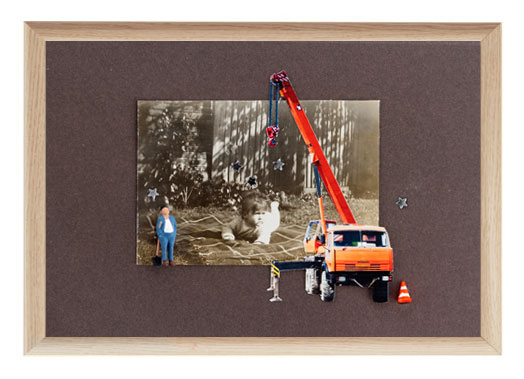
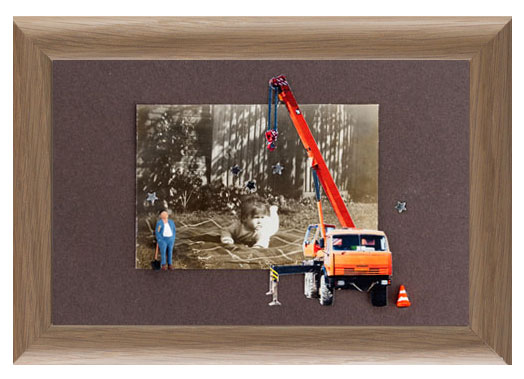
updating the frames

diff --git a/app/hbs/helpers.js b/app/hbs/helpers.js
@@ -2,12 +2,15 @@ import hbs from 'hbs';
 import path from 'path';
 import staticify from 'staticify';
 
-const $staticify = staticify(path.join(__dirname, 'public'));
+const hbsHelper = () => {
+  const $staticify = staticify(path.join(__dirname, 'public'));
+  hbs.registerHelper('getVersionedPath', ($path) => {
+    return $staticify.getVersionedPath($path);
+  });
 
-hbs.registerHelper('getVersionedPath', (path) => {
-  return $staticify.getVersionedPath(path);
-});
+  hbs.registerHelper('toUpperCase', (str) => {
+    return str.toUpperCase();
+  });
+};
 
-hbs.registerHelper('toUpperCase', (str) => {
-  return str.toUpperCase();
-});
+export default hbsHelper;

diff --git a/app/index.js b/app/index.js
@@ -7,6 +7,7 @@ import hbs from 'hbs';
 import staticify from 'staticify';
 
 import routes from './routes/index';
+import hbsHelpers from './hbs/helpers';
 
 const $staticify = staticify(path.join(__dirname, 'public'));
 const app = express();
@@ -23,6 +24,14 @@ app.use(bodyParser.urlencoded({extended: false}));
 app.use(cookieParser());
 app.use(express.static(path.join(__dirname, 'public')));
 app.use($staticify.middleware);
+
+hbs.registerHelper('getVersionedPath', ($path) => {
+  return $staticify.getVersionedPath($path);
+});
+
+hbs.registerHelper('toUpperCase', (str) => {
+  return str.toUpperCase();
+});
 
 app.use('/', routes);
 
